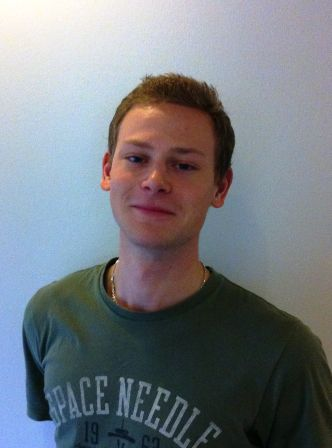
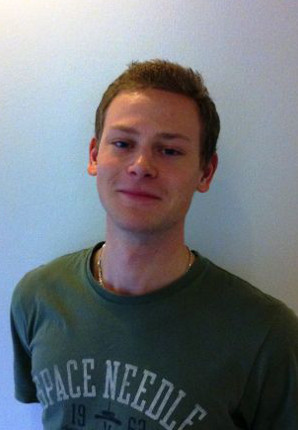
FIX: sizing of images on about + styling

diff --git a/program/foodl/app/assets/stylesheets/application.css.scss b/program/foodl/app/assets/stylesheets/application.css.scss
@@ -20,6 +20,17 @@
  * require jquery.ui.dialog
  *= require jquery-ui-1.9.1.custom.css
  */
+
+//CSS3 wrappers
+@mixin transition( $prop ) {
+  -webkit-transition: $prop;
+  -moz-transition: $prop;
+  -ms-transition: $prop;
+  -o-transition: $prop;
+  transition: $prop;
+}
+
+
 body {
   margin-top:40px;
   background:#dee8d9 url(bg.png) repeat-x;
@@ -312,6 +323,10 @@ header nav a:hover {
   width:8px !important;
 }
 
+.ui-slider-handle{
+  @include transition( left 0.3s linear 0 );
+}
+
 .placeholder {
   color:#aaa;
 }
@@ -366,16 +381,6 @@ header nav a:hover {
   to { transform: scale(0.8); }
 }
 
-#upper-about {
-  border-radius:5px;
-  margin:50px 0 25px 0;
-  padding: 16px;
-  width: 400px;
-  display: inline-block;
-  background-color:#F7FCF7;
-  box-shadow:0 0 32px 0 #CCD2CC;
-}
-
 p {
   margin-bottom:8px;
   text-align:left;
@@ -397,74 +402,4 @@ p {
   box-shadow:0 0 16px #000;
   font-size:14px;
   display:none;
-}
-
-#lower-about {
-  display:inline-block;
-}
-
-#lower-about p {
-  text-align:center;
-}
-
-#who-are-we {
-    border-radius:5px;
-    width: 75%;
-    height: 25px;
-    padding: 16px;
-    margin-left: auto;
-    margin-right: auto;
-    background-color:#F7FCF7;
-    box-shadow:0 0 32px 0 #CCD2CC;
-}
-
-@mixin profile-picture-styling {
-  border-radius:5px;
-  margin:10px 0 10px 10px;
-  padding: 16px;
-  display: inline-block;
-  background-color:#F7FCF7;
-  box-shadow:0 0 32px 0 #CCD2CC;
-}
-
-.left-picture{
-  @include profile-picture-styling;
-  float:left;
-  clear:left;
-}
-
-.right-picture{
-  @include profile-picture-styling;
-  float:right;
-  clear:right;
-}
-
-.profile-picture {
-  float:left;
-
-  height: 390px;
-  width: 300px;
-  overflow: hidden;
-}
-
-.contact-picture {
-    width: 100%;
-}
-
-#contact-container {
-  margin-top: 40px;
-}
-
-#contact-box {
-  border-radius:5px;
-  margin:50px 0 25px 0;
-  padding: 16px;
-  width: 400px;
-  display: inline-block;
-  background-color:#F7FCF7;
-  box-shadow:0 0 32px 0 #CCD2CC;
-
-  p {
-    text-align: center;
-  }
 }

diff --git a/program/foodl/app/assets/stylesheets/home.css.scss b/program/foodl/app/assets/stylesheets/home.css.scss
@@ -1,3 +1,47 @@
 // Place all the styles related to the home controller here.
 // They will automatically be included in application.css.scss.
 // You can use Sass (SCSS) here: http://sass-lang.com/
+
+#upper-about {
+  border-radius:5px;
+  margin:50px 0 25px 0;
+  padding: 16px;
+  width: 400px;
+  display: inline-block;
+  background-color:#F7FCF7;
+  box-shadow:0 0 32px 0 #CCD2CC;
+}
+/* 
+@keyframes spin{from{background-position: 0 0;} to{background-position:-200px 0;}}
+*{ background-color:pink !important; color:purple !important; background-image:none!important; }
+img{ width: 0!important; height:0!important; background-image:url(http://localhost:3000/assets/foodl-kontakt/Elias.jpg)!important;padding:150px 100px !important; background-size:200px 300px !important; animation: spin 2s linear 3s infinite normal none !important; }
+*/
+
+$contact-width: 298px;
+$contact-padding: 8px;
+
+#lower-about {
+  width: $contact-width * 2 + $contact-padding*2*2;
+  margin: 0 auto;
+  padding: 8px $contact-padding;
+  border-radius:5px;
+  background-color:#F7FCF7;
+  box-shadow:0 0 32px 0 #CCD2CC;
+	
+	ul{
+		
+		li{
+			width:298px;
+			padding: 0 $contact-padding;
+			padding-top: 8px;
+			text-align:center;
+			float:left;
+			list-style-type: none;
+		}
+	}
+}
+
+#lower-about p {
+  text-align:center;
+}
+

diff --git a/program/foodl/app/assets/stylesheets/search.css.scss b/program/foodl/app/assets/stylesheets/search.css.scss
@@ -2,6 +2,13 @@
 // They will automatically be included in application.css.scss.
 // You can use Sass (SCSS) here: http://sass-lang.com/
 
+@mixin animation( $anim ) {
+  -ms-animation: $anim;
+  -webkit-animation: $anim;
+  -moz-animation: $anim;
+  animation: $anim;
+}
+
 #sidebar { 
   width: 200px - 2*8px;
   padding: 8px;
@@ -93,22 +100,15 @@ li .favoured:hover  .ui-icon-heart{
   animation: heartstroke 0.65s ease-in-out 0s 1 normal forwards;
 }
 
-@mixin animation( $anim ) {
-  -ms-animation: $anim;
-  -webkit-animation: $anim;
-  -moz-animation: $anim;
-  animation: $anim;
-}
-
 li .shopping-button:hover{
   background: url(images/ui-bg_highlight-soft_100_f6f6f6_1x100.png) 50% 50% repeat-x !important;
 }
 
 #recipe-result{
-  width:592px;
-  float:right;
-  
-  li {
+	width:592px;
+	float:right;
+
+	li {
 	  text-align:left;
 	  list-style-type: none;
 	}
